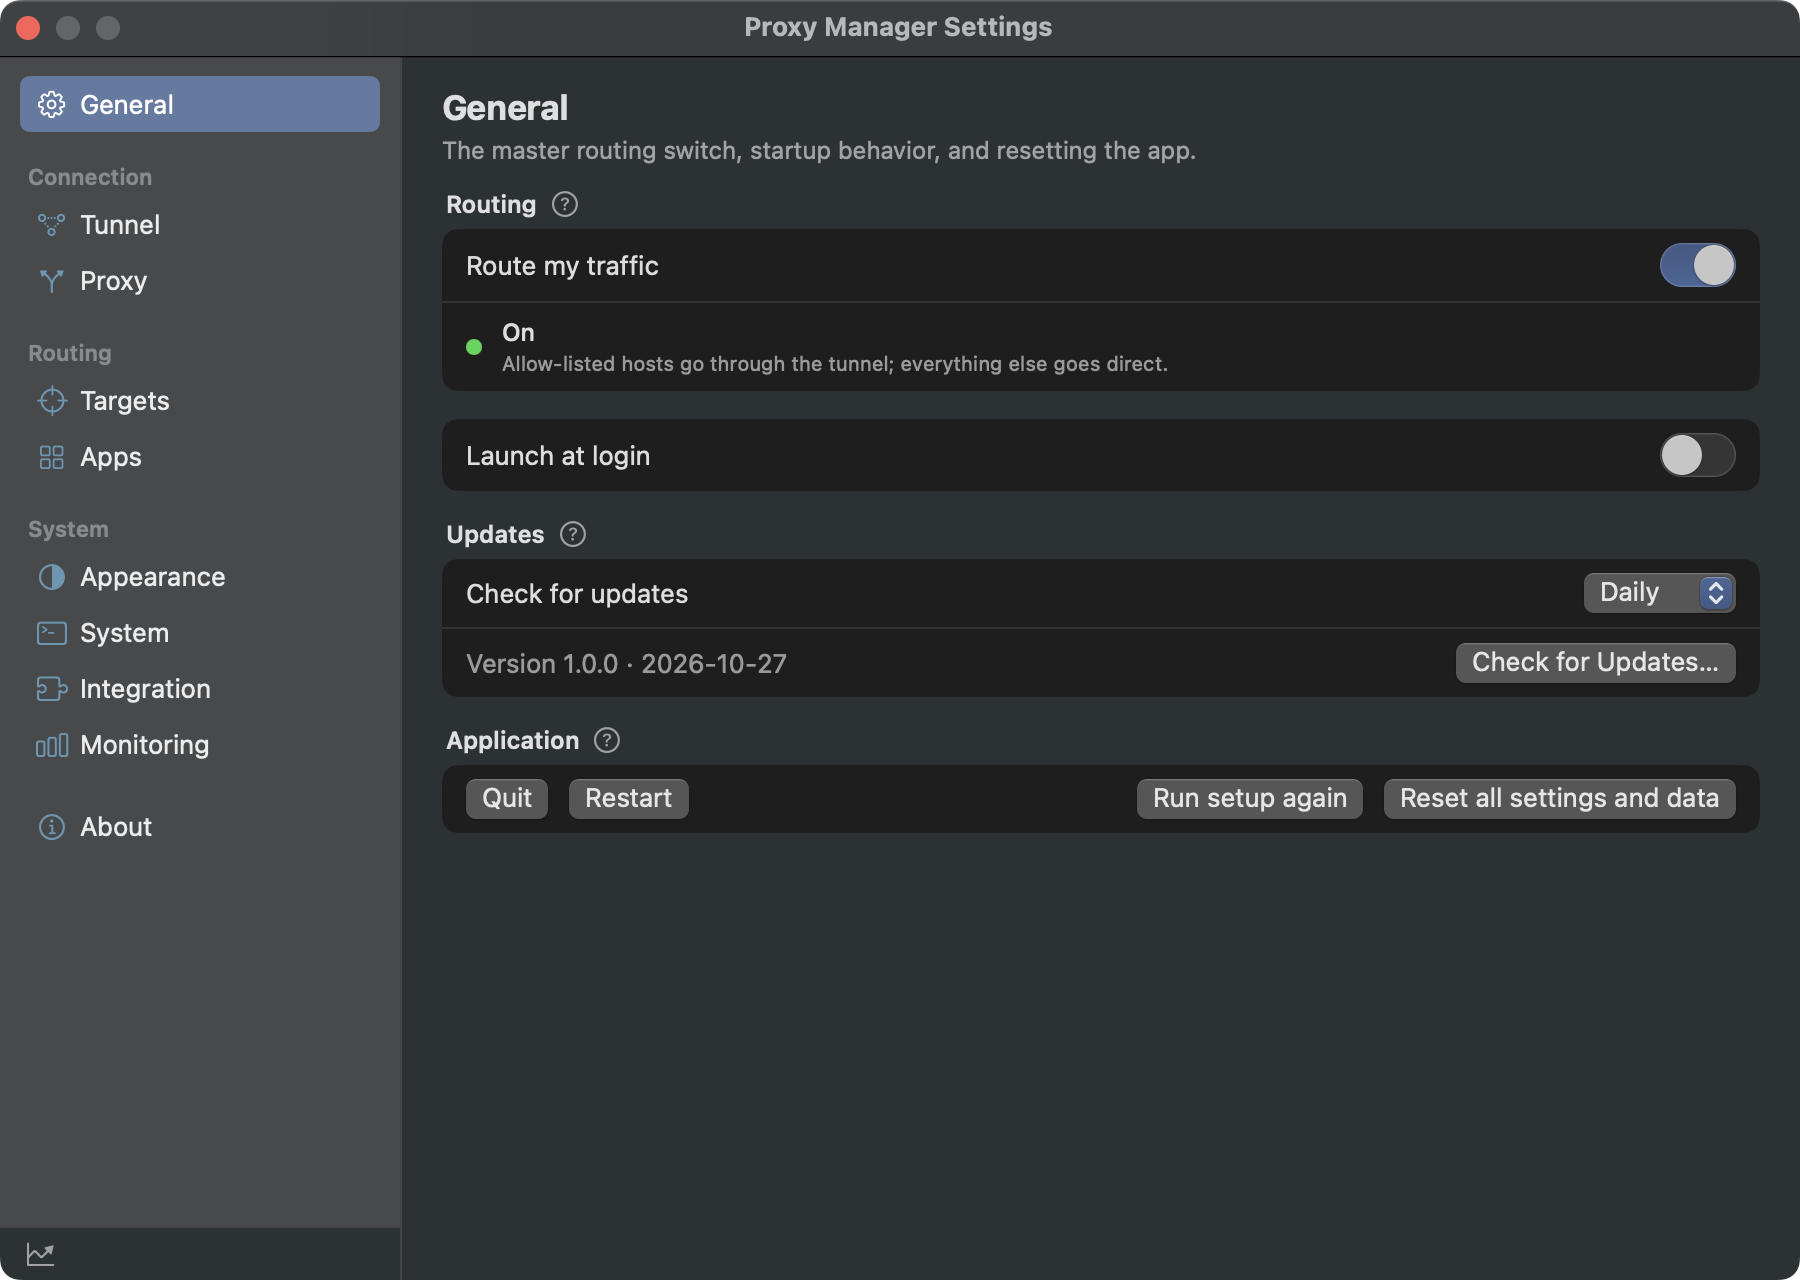
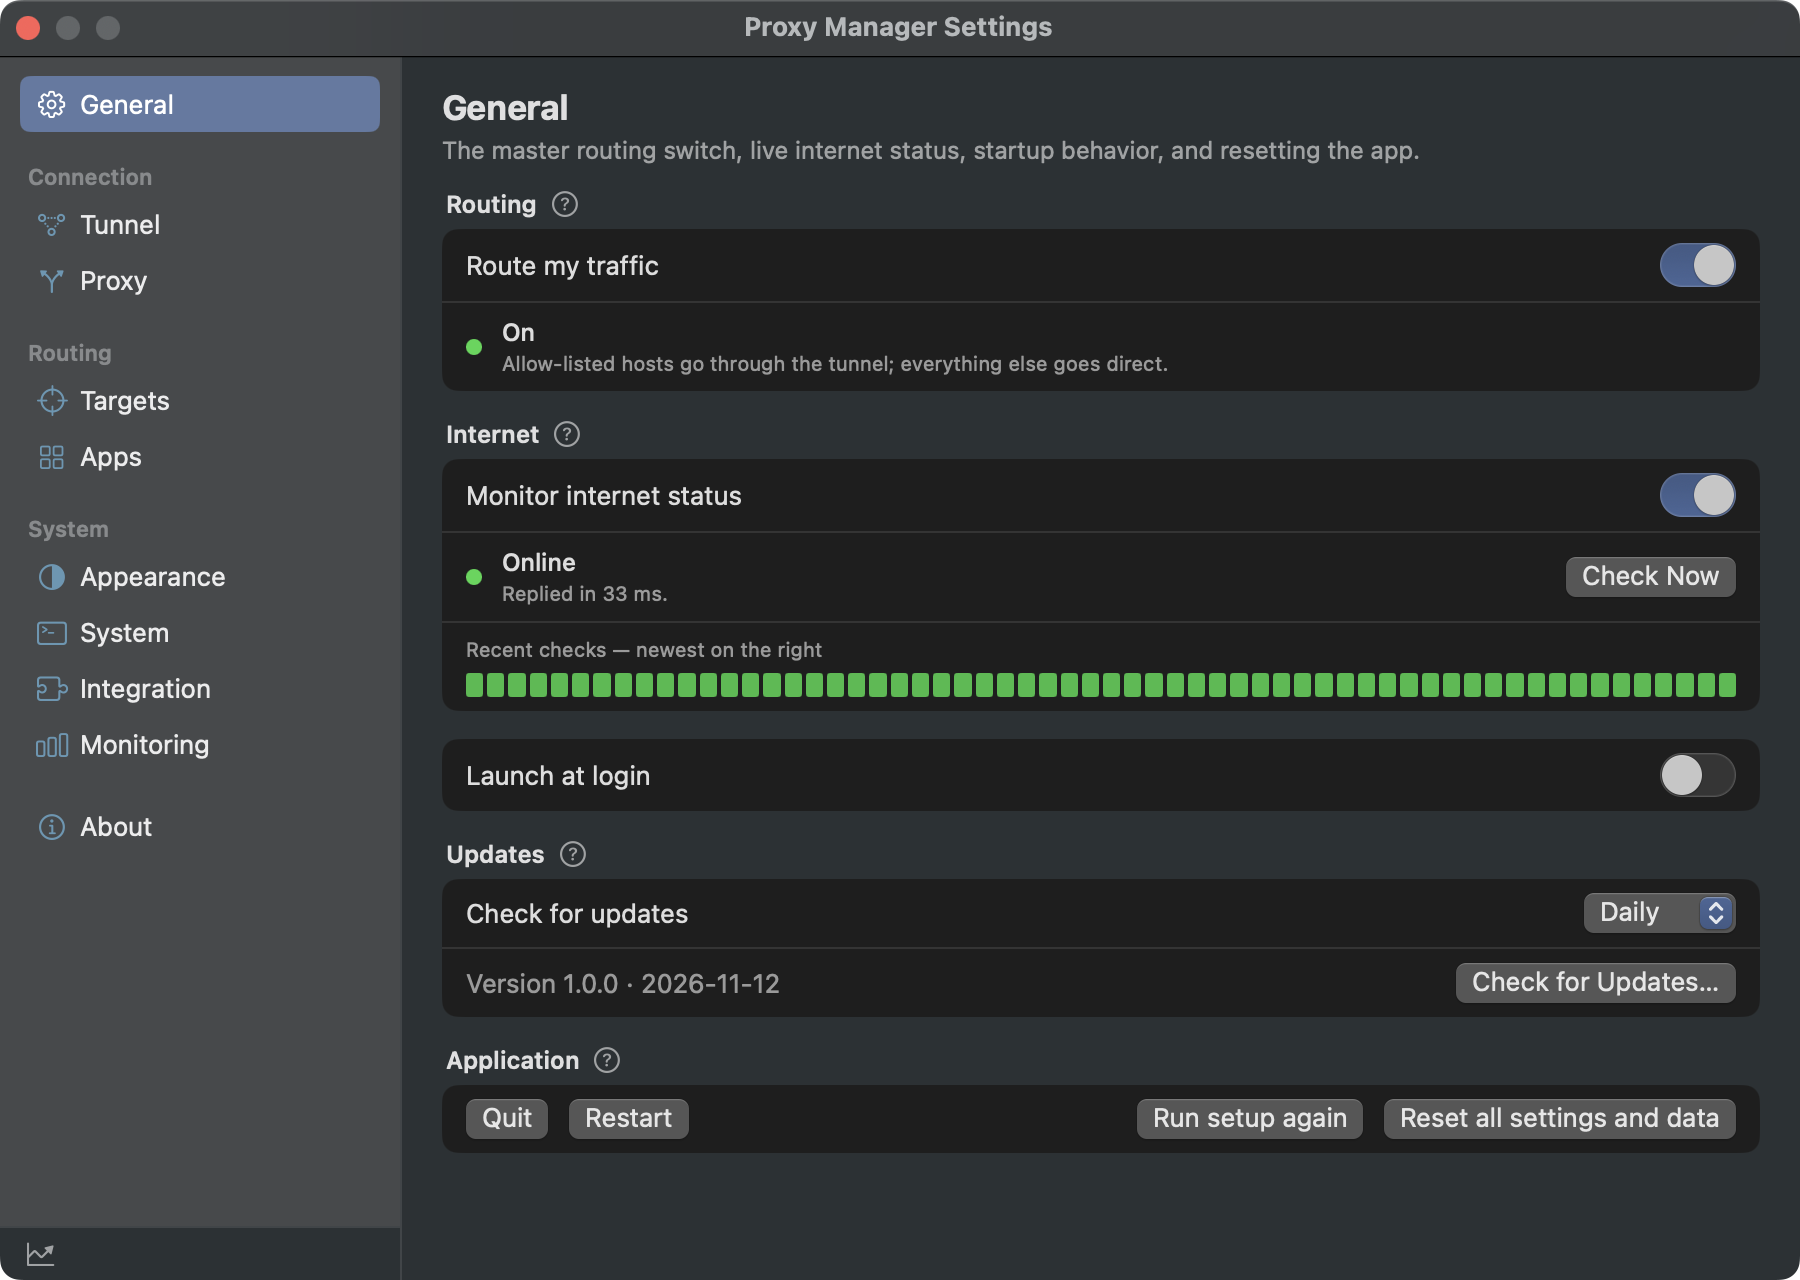
docs(site): document the internet status monitor
Refresh the General screenshots and disclose the optional Apple/Mozilla reachability check in the privacy policy and support FAQ.

diff --git a/index.html b/index.html
@@ -195,12 +195,12 @@
           <div class="shot-media" data-tilt>
             <picture>
               <source srcset="assets/general-dark.png" media="(prefers-color-scheme: dark)">
-              <img src="assets/general-light.png" alt="Settings → General: the Routing master switch at the top, switched on, with a green live status line underneath." data-dark="assets/general-dark.png" data-light="assets/general-light.png" loading="lazy" width="1800" height="1280">
+              <img src="assets/general-light.png" alt="Settings → General: the Routing master switch and the live internet status, both switched on, above launch-at-login and update settings." data-dark="assets/general-dark.png" data-light="assets/general-light.png" loading="lazy" width="1800" height="1280">
             </picture>
           </div>
           <div class="shot-copy">
             <h3>The master switch</h3>
-            <p>Turn routing on or off from Settings, not just the menu bar. The live status underneath shows a spinner while it applies, and the reason with <em>Try Again</em> when it can’t start.</p>
+            <p>Turn routing on or off from Settings, not just the menu bar. The live status underneath shows a spinner while it applies, and the reason with <em>Try Again</em> when it can’t start. Below it, the internet check shows whether the internet itself is reachable — a connected Wi-Fi network with a dead router uplink is visible instead of silent.</p>
           </div>
         </article>
 
@@ -266,6 +266,7 @@
           <li><strong>Streaming, not buffering.</strong> <code>CONNECT</code> tunnels are relayed byte-for-byte with backpressure, so SSE and LLM token streams arrive as they are produced. WebSocket sessions (<code>ws://</code> and <code>wss://</code>) relay full-duplex too.</li>
           <li><strong>Bounded memory.</strong> Fixed 256 KB buffers per direction, with half-close handled so responses are never truncated.</li>
           <li><strong>Telemetry off the hot path.</strong> Per-request recording is a lock and an append; a single batched writer flushes SQLite.</li>
+          <li><strong>Internet, not just Wi-Fi.</strong> An optional active check (Apple’s captive-portal probe, with a Mozilla fallback) distinguishes a working uplink from a connected network. The responses are 8–69 bytes, bypass the local proxy, are never recorded, and can be turned off in Settings.</li>
           <li><strong>Per-app identity, resolved locally.</strong> With per-app routing on, each connection is matched to its originating app by a local process scan — helpers resolve to their host app. Off by default, so the hot path is unchanged.</li>
           <li><strong>Crash-safe.</strong> A watchdog user agent restores your original proxy settings within milliseconds if the app dies. The app keeps its saved recovery state until a restore actually succeeds, so a transient failure can’t erase it.</li>
           <li><strong>Your choice sticks.</strong> A failed attempt doesn’t silently flip the switch off — background tries retry quietly, and routing returns on unlock, wake, or a network change.</li>
@@ -285,6 +286,7 @@
         <li><strong>Local-only.</strong> Binds to <code>127.0.0.1</code>; private destinations are blocked for non-loopback clients.</li>
         <li><strong>Metadata only, on disk.</strong> Host, app, size, timing, and status in a local SQLite file. No bodies or headers.</li>
         <li><strong>Secrets in the Keychain.</strong> An SSH password is never written to the config or a command line.</li>
+        <li><strong>No hidden reporting.</strong> The optional internet check only asks Apple (or Mozilla) whether the network is reachable; it sends no identifiers or traffic data. One switch turns it off.</li>
       </ul>
     </div>
   </section>

diff --git a/privacy.html b/privacy.html
@@ -67,7 +67,7 @@
     <p>Proxy Manager collects no data about you. It has no telemetry, no analytics, no account, and no server that sees your traffic. The app is open source under the MIT license, so you can verify every claim on this page in the code.</p>
 
     <h2>The app</h2>
-    <p>Everything the app does happens locally on your Mac. It runs an HTTP proxy bound to <code>127.0.0.1</code> and routes only the hostnames on your allow-list — and, when you enable per-app routing, the apps you choose — through your SOCKS5 tunnel. Everything else connects directly.</p>
+    <p>Everything the app does with your traffic happens locally on your Mac. It runs an HTTP proxy bound to <code>127.0.0.1</code> and routes only the hostnames on your allow-list — and, when you enable per-app routing, the apps you choose — through your SOCKS5 tunnel. Everything else connects directly.</p>
     <ul>
       <li><strong>TLS is passed through.</strong> <code>CONNECT</code> streams are relayed byte-for-byte; the app never sees plaintext payloads.</li>
       <li><strong>Metadata only, on disk.</strong> Per-request records (host, method, route decision, status, byte counts, and timing) are written to a local SQLite file at <code>~/Library/Application Support/ProxyManager/telemetry.sqlite</code>. When per-app routing is on, the originating app’s name and bundle identifier are recorded too. No request bodies and no headers are captured. Retention is 7 days by default and configurable in Settings.</li>
@@ -75,7 +75,11 @@
       <li><strong>Secrets in the Keychain.</strong> If you use “Run the tunnel for me,” an SSH password is stored in the macOS Keychain and fed to <code>ssh</code> through a one-shot helper. It is never written to the config or a command line. Key-file auth stores nothing.</li>
       <li><strong>System proxy safety.</strong> Before changing the macOS proxy, the app saves your original settings locally so it can always restore them. A small watchdog does the same if the app crashes.</li>
     </ul>
-    <p>Nothing here is uploaded, logged remotely, or shared.</p>
+    <p>Nothing here is uploaded, logged remotely, or shared. The only outbound requests are the optional internet check and Sparkle’s update check, both described below.</p>
+
+    <h2>Internet status check</h2>
+    <p>If you leave the optional internet status check on, the app periodically requests a tiny fixed page from <a href="https://captive.apple.com/hotspot-detect.html" rel="noopener">Apple</a> — falling back to <a href="https://detectportal.firefox.com/success.txt" rel="noopener">Mozilla</a> if Apple is unreachable — to tell whether the internet itself works, not just whether Wi-Fi is connected. These requests contain no identifiers, cookies, or information about your traffic; they bypass the local proxy and are never added to telemetry. The response is a few dozen bytes.</p>
+    <p>Like any HTTP request, the check reveals your IP address to the operator of the endpoint (Apple, or Mozilla if Apple is unreachable). Proxy Manager has no server of its own and receives nothing from this check. You can turn it off in Settings → General → Internet, which stops the requests entirely.</p>
 
     <h2>Automatic updates</h2>
     <p>Proxy Manager uses <a href="https://sparkle-project.org/" rel="noopener">Sparkle</a>, the open-source update framework, to check for new versions. An update check fetches a small static file (the appcast) from GitHub Releases. That request carries no personal information, no identifiers, and nothing about your traffic. Updates are EdDSA-signed and verified before installing. You can turn automatic checks off in Settings → General.</p>

diff --git a/support.html b/support.html
@@ -73,7 +73,8 @@
     <h2>Common questions</h2>
     <p><strong>macOS won’t open the app.</strong> Proxy Manager isn’t notarized by Apple, so macOS may block the first launch. Open <strong>System Settings → Privacy &amp; Security</strong> and click <strong>Open Anyway</strong> for Proxy Manager. You only need to do this once; the app updates itself normally afterwards.</p>
     <p><strong>How do updates work?</strong> The app checks for new versions via Sparkle in the background and always asks before installing. You can change the frequency or turn checks off in Settings → General. Release notes live on the <a href="https://github.com/chaim-chv/proxy-manager/releases" rel="noopener">Releases page</a>.</p>
-    <p><strong>Is my data private?</strong> Yes. There is no telemetry and no analytics; TLS is passed through untouched and metadata stays on your machine. See the <a href="privacy.html">privacy policy</a>.</p>
+    <p><strong>Is my data private?</strong> Yes. There is no telemetry and no analytics; TLS is passed through untouched and metadata stays on your machine. The optional internet check only asks Apple (or Mozilla) whether the network is reachable and sends no identifiers or traffic data. See the <a href="privacy.html">privacy policy</a>.</p>
+    <p><strong>The menu says “Offline” but my Wi-Fi is connected.</strong> That is the case the check is designed to catch: Wi-Fi can stay connected while your router or ISP loses its uplink. Proxy Manager makes a tiny request to Apple (with a Mozilla fallback) to see whether the internet actually works. If other sites load but the check says Offline, please <a href="https://github.com/chaim-chv/proxy-manager/issues/new" rel="noopener">open an issue</a> with your network details. You can turn the check off in Settings → General → Internet.</p>
     <p><strong>Do I need my own tunnel?</strong> Proxy Manager routes to a SOCKS5 proxy that you provide — for example <code>ssh -D 1080 user@host</code>. Or switch on “Run the tunnel for me” and let the app create and supervise the SSH tunnel for you. See the <a href="index.html#faq">FAQ</a> for more.</p>
     <p><strong>Can I route traffic per app?</strong> Yes. In Settings → Apps, each app can be set to <em>Tunnel all</em>, <em>Use target rules</em> (follow the host allow-list), or <em>Direct all</em>, with a default for apps you don’t list. You can also set the frontmost app’s mode from the menu bar. It’s off until you turn it on.</p>
     <p><strong>Will it ask for my password?</strong> Normally no. The macOS proxy settings it changes are per-user, so a standard setup needs no admin approval. Anything that would need authorization from the background — at login, on wake, or while the screen is locked — waits until you are back at the keyboard. A signed install in <code>/Applications</code> can use the optional privileged helper, which asks for approval once when it is installed.</p>
